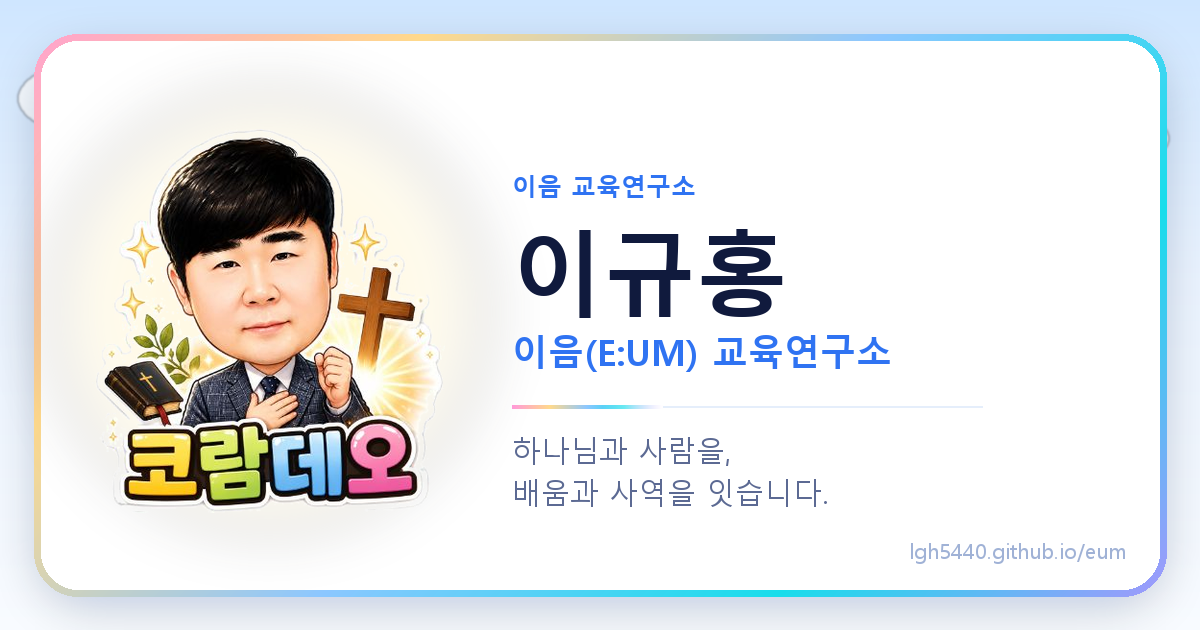
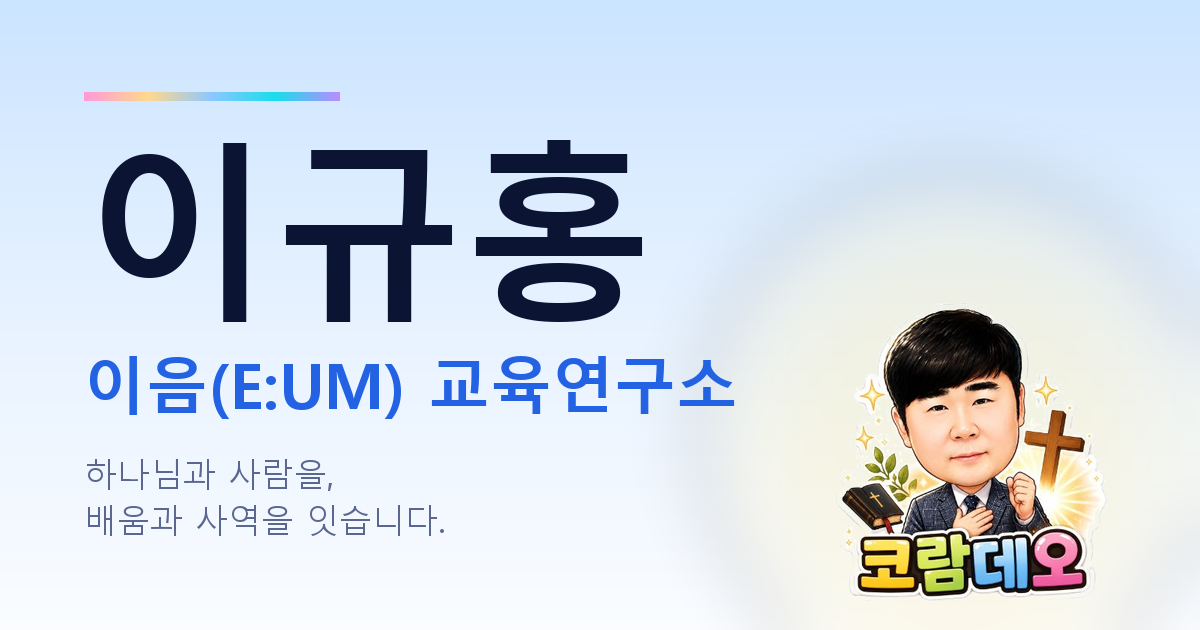
Improve KakaoTalk preview: bigger og.png text, drop duplicate description
- Redesign og.png for 300px chat-thumbnail legibility: much larger name
  (190px) and affiliation (62px) text, remove rainbow border/card/clouds/
  URL footer clutter so type dominates; character illustration shrunk and
  moved to a corner accent. Verified by rendering a 300px-wide thumbnail
  and inspecting it directly.
- Remove og:description, twitter:description, and meta description (all
  duplicated the in-image tagline, which KakaoTalk was showing twice —
  once baked into the image, once as text underneath).

diff --git a/index.html b/index.html
@@ -1,13 +1,11 @@
 <title>이음 링크명함</title>
 <meta name="viewport" content="width=device-width, initial-scale=1">
 <meta charset="utf-8">
-<meta name="description" content="하나님과 사람을, 배움과 사역을 잇습니다.">
 
 <!-- Open Graph (KakaoTalk / Facebook 링크 미리보기) -->
 <meta property="og:type" content="website">
 <meta property="og:url" content="https://lgh5440.github.io/eum/">
 <meta property="og:title" content="이규홍 · 이음(E:UM) 교육연구소">
-<meta property="og:description" content="하나님과 사람을, 배움과 사역을 잇습니다.">
 <meta property="og:image" content="https://lgh5440.github.io/eum/og.png">
 <meta property="og:image:width" content="1200">
 <meta property="og:image:height" content="630">
@@ -18,7 +16,6 @@
 <!-- Twitter / X -->
 <meta name="twitter:card" content="summary_large_image">
 <meta name="twitter:title" content="이규홍 · 이음(E:UM) 교육연구소">
-<meta name="twitter:description" content="하나님과 사람을, 배움과 사역을 잇습니다.">
 <meta name="twitter:image" content="https://lgh5440.github.io/eum/og.png">
 <link rel="preconnect" href="https://fonts.googleapis.com">
 <link rel="preconnect" href="https://fonts.gstatic.com" crossorigin>
